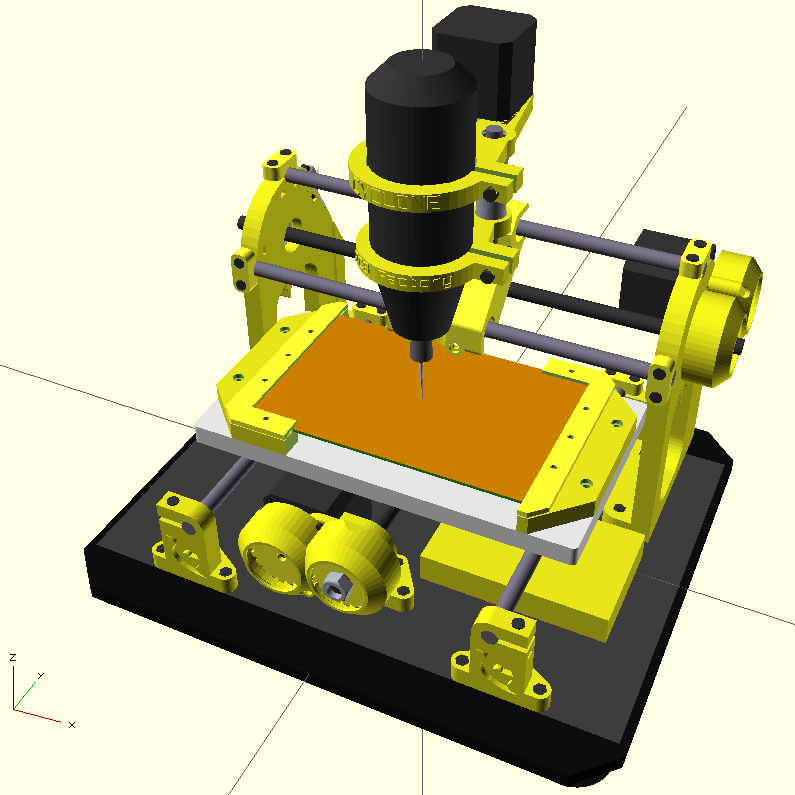
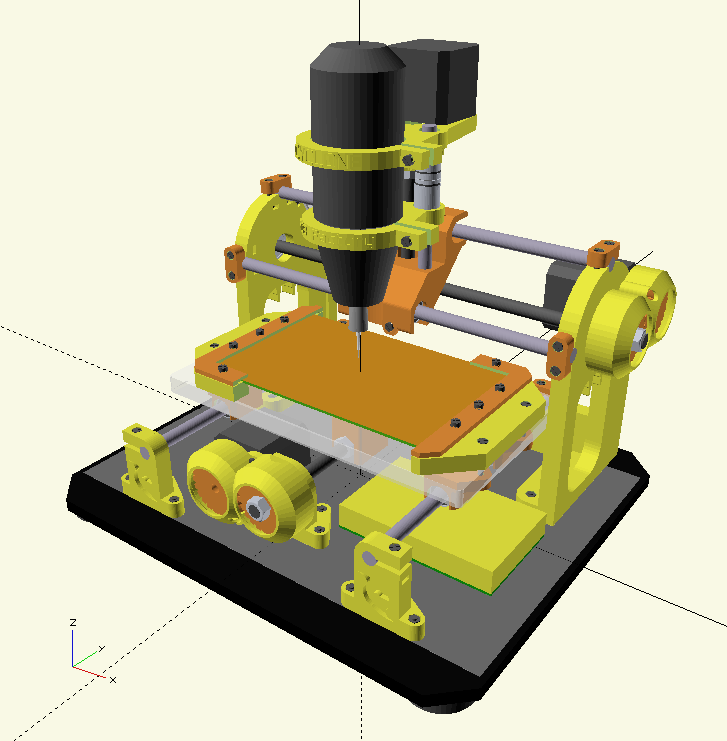
Changed moving part colors, updated renders

diff --git a/Source_files/configs/Default_config.h b/Source_files/configs/Default_config.h
@@ -194,8 +194,9 @@
 		blueColor = [0.3,0.6,0.9];
 		redColor = [0.8,0.3,0.3];
 		yellowColor = [0.9,0.9,0.1];
+		orangeColor = [0.9,0.5,0.1];
 		blackColor = [0.2,0.2,0.2];
-		color_movingPart = yellowColor+[0.1,0.1,0.1];
+		color_movingPart = orangeColor;
 		color_stillPart = yellowColor;
 
 	// --- DXF output ---
